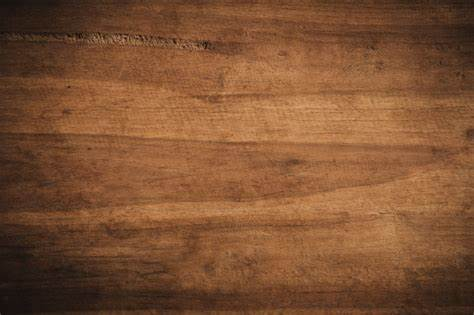
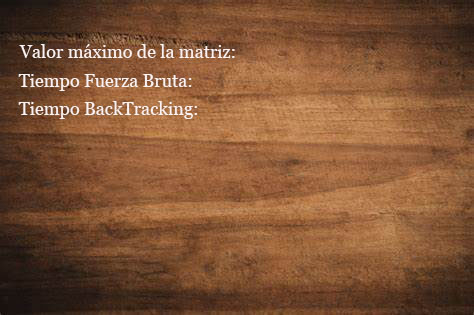
Interfaz para la respuestas y tiempo

Changed region(s): [[0.0295, 0.1429, 0.5021, 0.2], [0.0295, 0.3143, 0.4135, 0.4], [0.0295, 0.2286, 0.4135, 0.2857]]

diff --git a/Interfaz/interfaz.py b/Interfaz/interfaz.py
@@ -1,8 +1,11 @@
 from tkinter import *
 import tkinter as tk
+from tkinter import ttk
 from PIL import ImageTk, Image
 import random
+from time import time
 
+solucionBacktraking = ""
 
 #Crea la ventana principal
 raiz = tk.Tk() 
@@ -20,7 +23,7 @@ fondo.place(x=-5,y=-5)
 
 #Carga la imagen donde van los datos 
 comp = Image.open('comp.jpg')
-comp = comp.resize((500, 500), Image.ANTIALIAS) # Redimension (Alto, Ancho)
+comp = comp.resize((500, 515), Image.ANTIALIAS) # Redimension (Alto, Ancho)
 comp = ImageTk.PhotoImage(comp)
 mapa = Label(raiz, image=comp)
 mapa.pack()
@@ -33,7 +36,7 @@ mapa.place(x=200,y=100)
 etapas = False
 
 def BackTracking(matriz,solucion,fichas,i,j,aux):  #
-    global etapas
+    global etapas,solucionBacktraking
 
     #En caso que ya se guardo el numero en vertical con la fila anterior 
     if [i,j] in aux:
@@ -46,8 +49,7 @@ def BackTracking(matriz,solucion,fichas,i,j,aux):  #
 
     #Valida si ya se pasaron por todos los datos
     if i>=len(matriz):
-        print("La matriz es: ",matriz)
-        print("La solucion del algoritmo BackTracking es: ",solucion)
+        solucionBacktraking = solucion
         etapas= True 
         return 0
         
@@ -129,7 +131,6 @@ def BackTracking(matriz,solucion,fichas,i,j,aux):  #
             #En caso que ya se encontro la respuesta 
             if etapas==True:
                 return 0
-
         
             if i+1>=len(matriz):
                 if j>len(matriz[0]):
@@ -215,7 +216,6 @@ def create_puzzle(n):
     es posible que el algoritmo generador falle y no encuentre un tablero válido
     Si sucede, retorna falso y no genera ningún archivo de salida
     """
-
     board = make_board(n+1, n+2)
     tiles = make_tiles(n)
     random.shuffle(tiles)
@@ -235,37 +235,62 @@ def create_puzzle(n):
         else:
             return False
 
+    start_time = time()
     #Llama la funcion de backtracking y le pasa la matriz como parametro 
     BackTracking(board,[],[],0,0,[])
+ 
+    elapsed_time = time() - start_time
+    entry.delete(0,"end")
+    entry.insert(0, elapsed_time)
+    toFile(n, board)
 
-
-def toFile(filename, n, board, solution):    
-    file = open(filename+ ".txt", "w")
-    file.write(str(n) +  "\n")
-    file.write("\n")
-
+def toFile(n, board): 
+    listbox.delete(0,END)
     #tablero
+    listbox.insert(END, "Matriz de tamaño "+ str(n+2)+"x"+str(n+1))
+    listbox.insert(END, " ")
     for fila in board:
-        for e in fila:
-            file.write(str(e) + " ")
-        file.write("\n")
-    file.write("\n")
-            
-    for i in solution:
-        file.write(str(i) + " ")
-    file.write("\n")
+        listbox.insert(END,str(fila) + " ")
+    listbox.insert(END, " ")
+    listbox.insert(END,"La solcion del BackTracking es: "+ str(solucionBacktraking) + " ")
+         
 #_______________________________Crear_la_matriz________________________________________________
-
 
 def mostrarResultados():
     global etapas
-    create_puzzle(9)
+    #Le pasa el valor del combobox
+    create_puzzle(int(monthchoosen.get()))
     etapas=False
+    
+#____________________________Botones, combobox y labels________________________________________
 
-#____________________________Botones y labels__________________________________________________
+# Combobox
+n = tk.StringVar()
+monthchoosen = ttk.Combobox(raiz, width = 3, textvariable = n,state="readonly", font=("Georgia",12))
+monthchoosen['values'] = ( ' 1',' 2',' 3',' 4', ' 5',
+                          ' 6',' 7',' 8',' 9',' 10')
+monthchoosen.place(x = 460, y = 172)
+monthchoosen.current(0)
 
+#Botones 
 button1 = tk.Button(raiz, font=("Courier",22), bg="green", text="Start",height=0,width=8,command=mostrarResultados)
 button1.place(x=375,y=700)
+
+#TextBox
+txtfuerzabruta = ttk.Entry(raiz,width = 20)
+txtfuerzabruta.place(x=407, y=221)
+
+entry = ttk.Entry(raiz,width = 20)
+entry.place(x=412, y=267)
+
+#ListBox
+listbox = Listbox(raiz)
+listbox.place(relx=0.3,rely=0.43,relheight=0.3, relwidth=0.4)
+
+barra = Scrollbar(raiz,orient=HORIZONTAL)
+barra.place(x=270,y=570,relwidth=0.4)
+listbox.config(xscrollcommand=barra.set)
+barra.config(command=listbox.xview)
 
 
 raiz.mainloop() 
